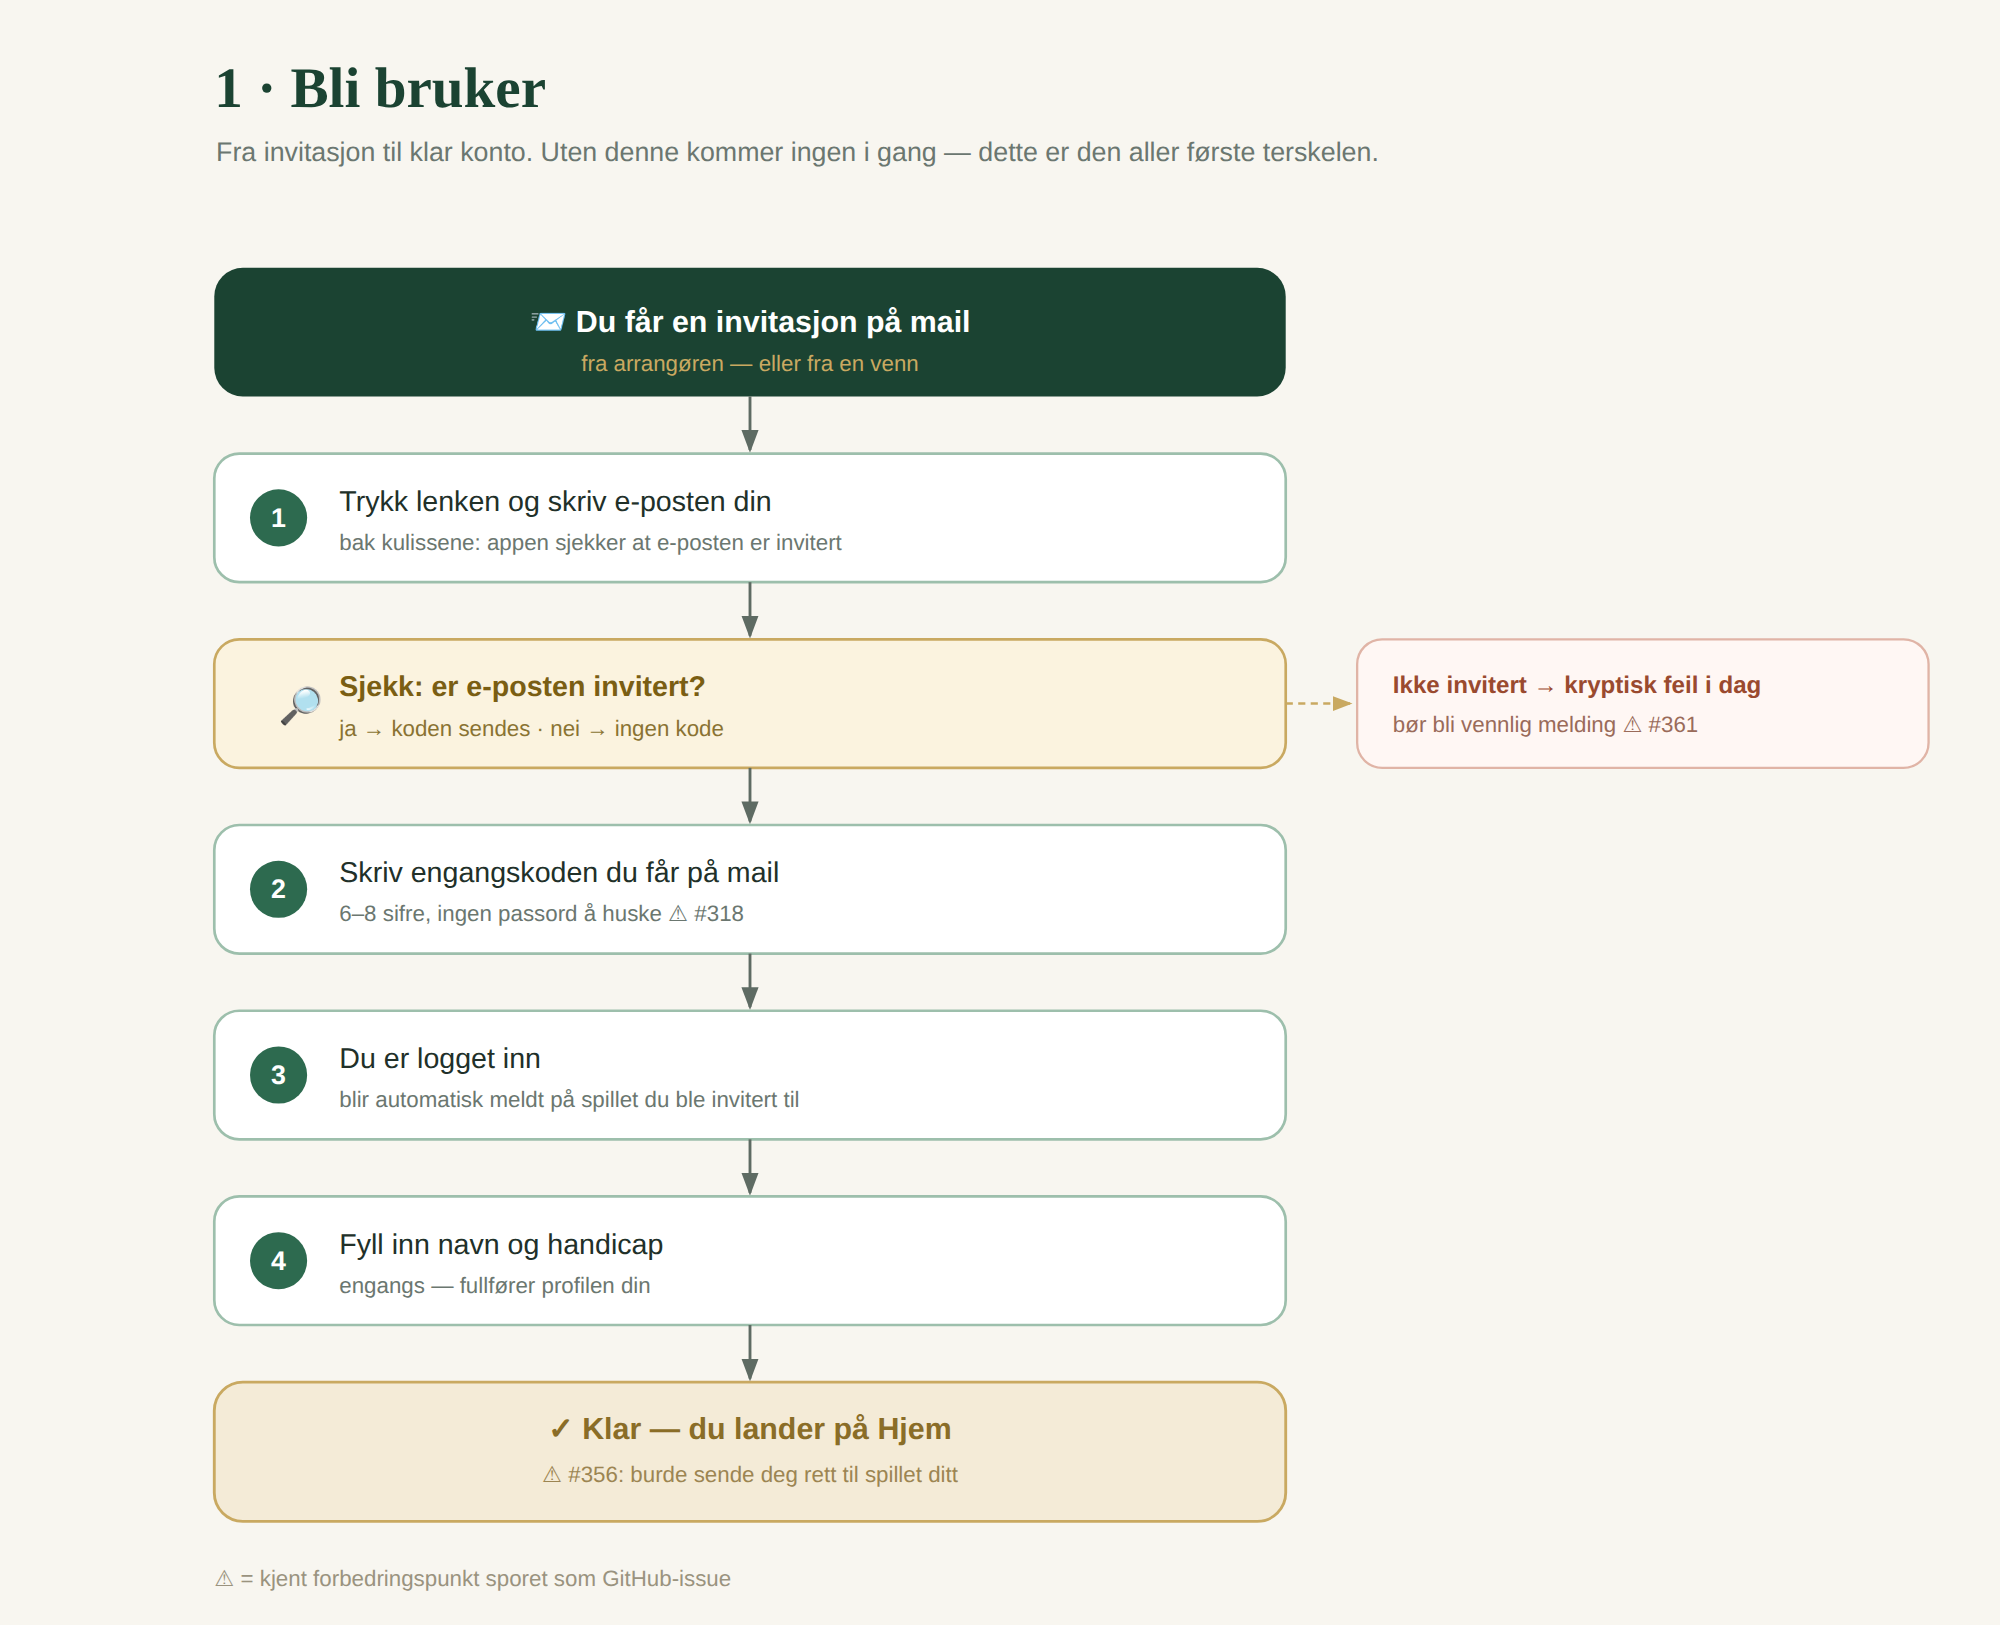
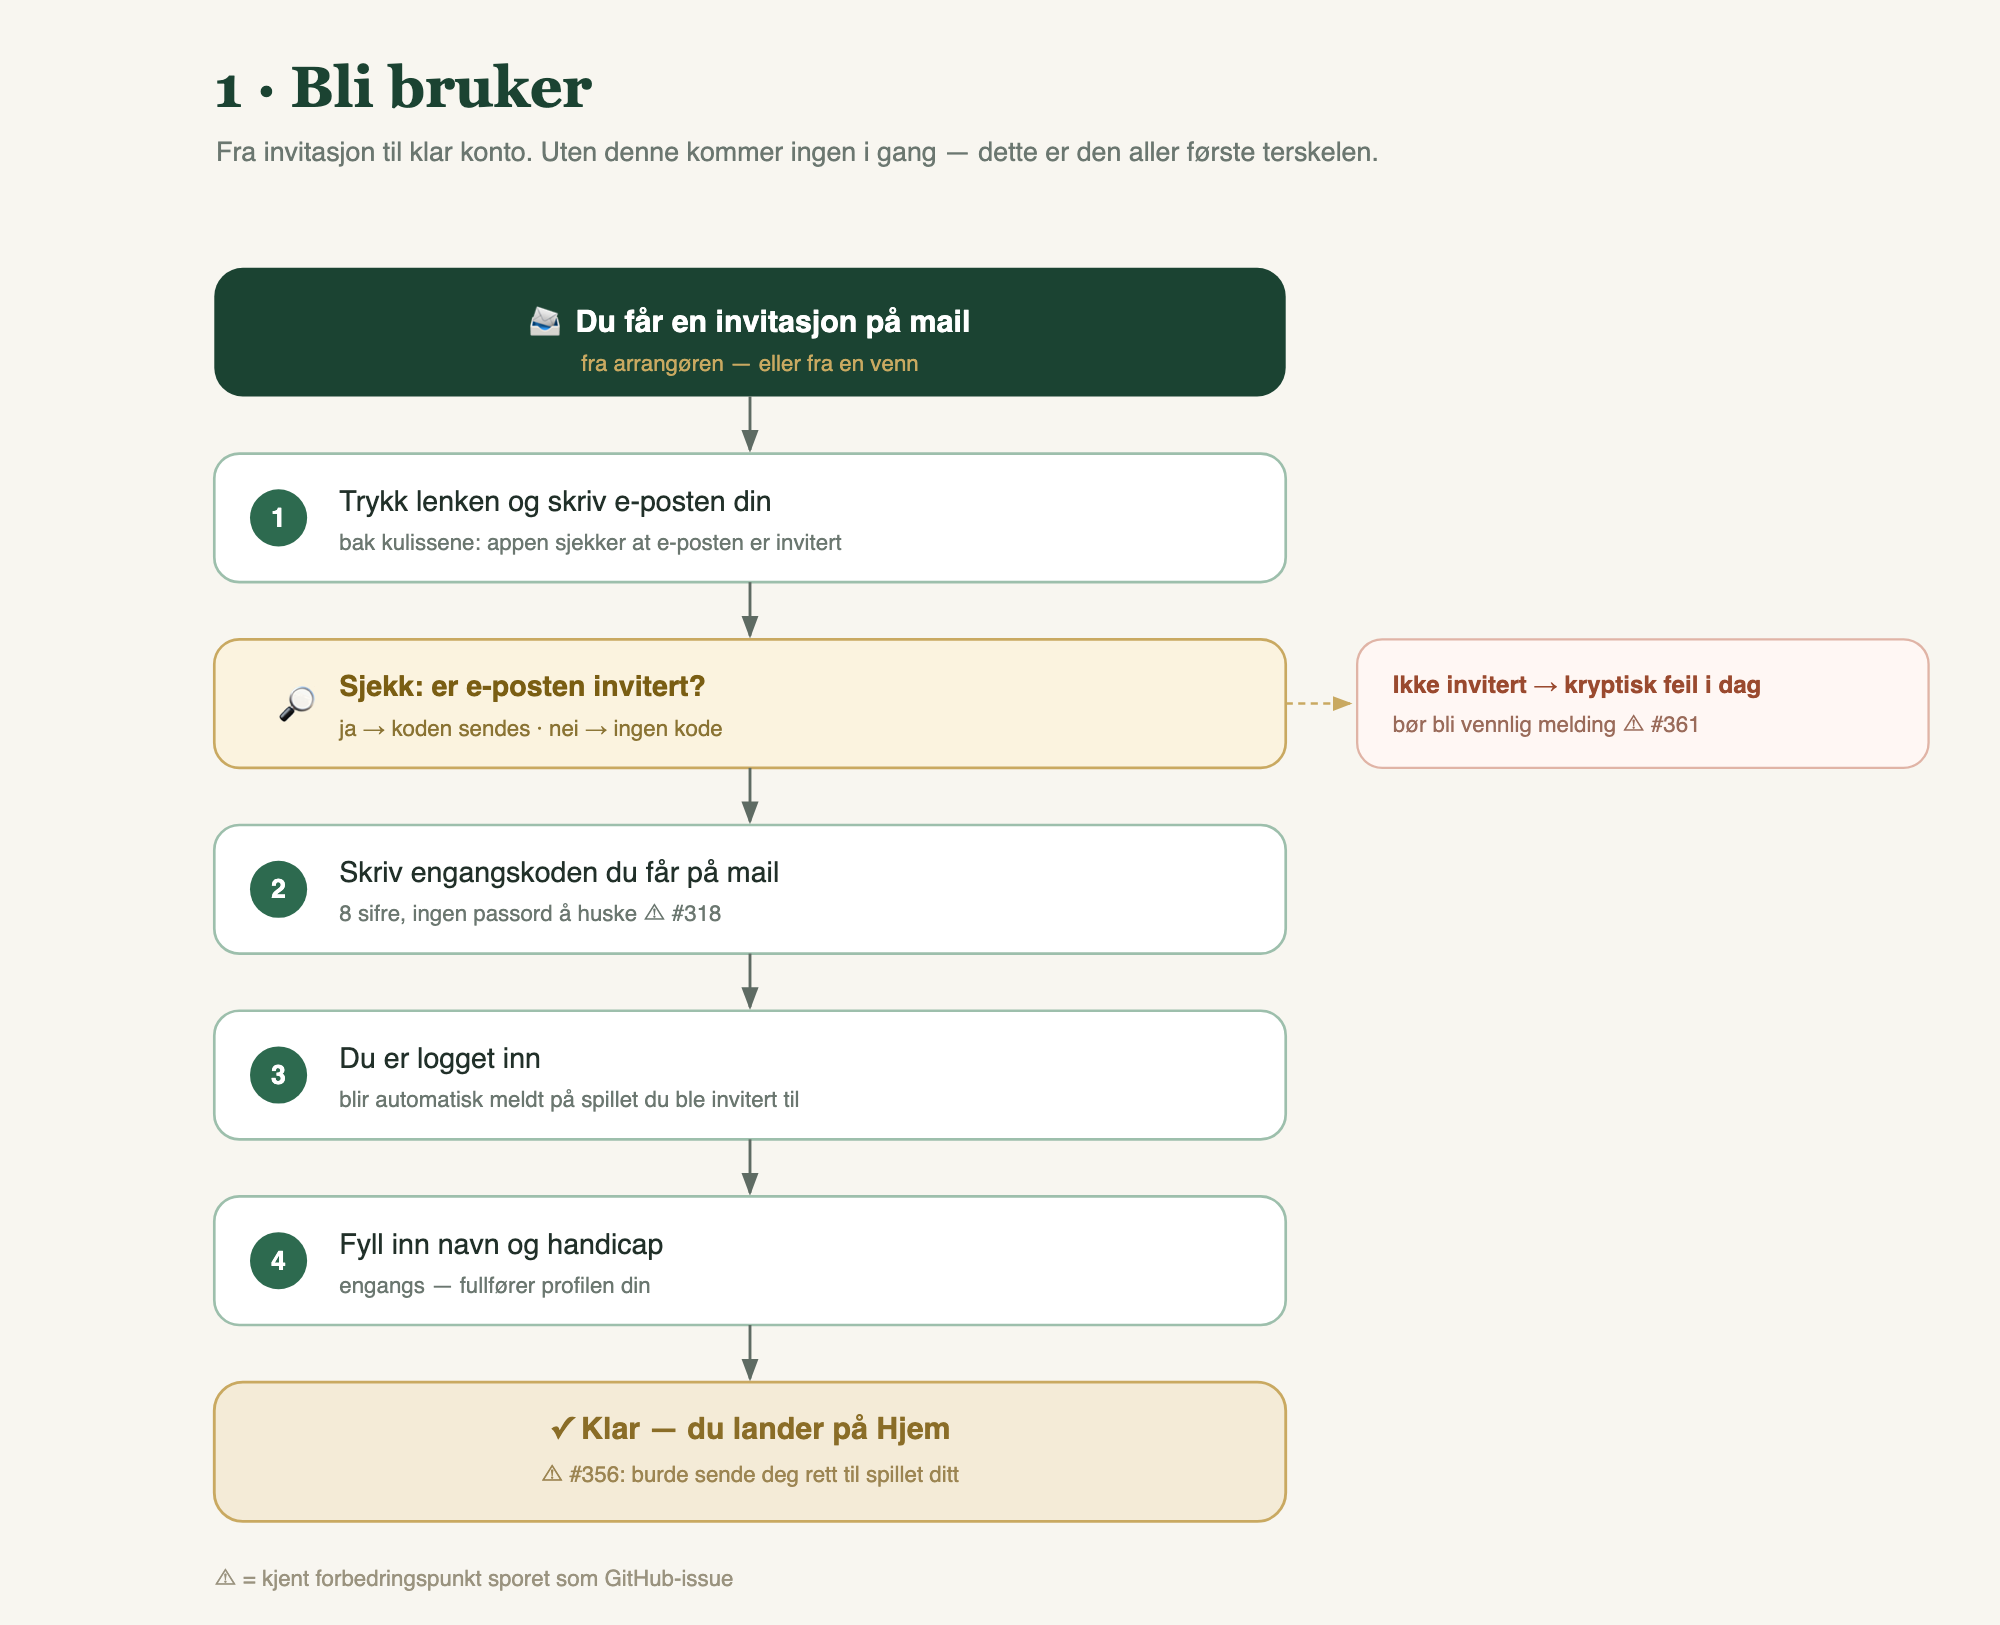
docs(login): eight digits and the new band in the docs around the login
søsken-funn: the old code length and BrandHero-on-/login outside the
feature files. docs/email-templates.md says 8-sifret, the «i dag» flow
diagram 01-bli-bruker says «8 sifre» (PNG regenerated, the other PNGs
restored), and the BrandHero/BrandMark comments and the heading comment
in e2e/auth/login.spec.ts no longer point at /login.

Refs #2349

diff --git a/components/ui/BrandHero.tsx b/components/ui/BrandHero.tsx
@@ -3,8 +3,9 @@ import { BrandMark } from './BrandMark';
 
 /**
  * Brand-mark hero: the «Tørny» wordmark (ball on the T, #1985) + the tagline
- * below. Used on /login, /finn-turneringer (logged out) and the public sign-up
- * page as the page heading, standing on the linen background. The tagline
+ * below. Used on /finn-turneringer (logged out) and the public sign-up page as
+ * the page heading, standing on the linen background. (/login has its own
+ * forest band since #2349.) The tagline
  * comes from `common.brandTagline`, so it follows the page language (#2351).
  *
  * Faithful to `brand-mark.svg` in

diff --git a/e2e/auth/login.spec.ts b/e2e/auth/login.spec.ts
@@ -19,8 +19,8 @@ test.describe('Login form smoke (OTP step 1)', () => {
   test('rendres med e-post-input og "Send meg kode"-knapp', async ({ page }) => {
     await page.goto('/login');
 
-    // BrandHero-wordmarket er sidas heading — «Logg inn»-h1-en ble fjernet
-    // i db8b73e (BrandHero-swap), så den gamle asserten var stale.
+    // Ordmerket «Tørny» i det grønne båndet er sidas heading på steg 1
+    // (#2349, LoginBand).
     await expect(page.getByRole('heading', { name: 'Tørny' })).toBeVisible();
     await expect(page.getByLabel('E-post')).toBeVisible();
     await expect(

diff --git a/components/ui/BrandMark.tsx b/components/ui/BrandMark.tsx
@@ -14,7 +14,7 @@ const SIZES = {
   xs: { className: 'text-sm', px: 14 }, // spectate banner
   sm: { className: 'text-xl', px: 20 }, // top of a page
   md: { className: 'text-3xl', px: 30 }, // signup poster
-  lg: { className: 'text-5xl', px: 48 }, // BrandHero, /login
+  lg: { className: 'text-5xl', px: 48 }, // BrandHero
   hero: { className: 'text-2xl', px: 24 }, // the front page's green top (#2261)
 } as const;
 

diff --git a/docs/email-templates.md b/docs/email-templates.md
@@ -14,14 +14,14 @@ Supabase Auth bruker konfigurerbare HTML-maler for alle auth-mailer. Her er Tør
 
 | Mal | Brukes av Tørny? | Beskrivelse |
 |---|---|---|
-| **Magic Link** | ✅ Ja, **OTP-kode** | Sendes ved login til **eksisterende** auth-brukere. **Språknøytral kode-mal (Fase M):** viser en 6-sifret kode (`{{ .Token }}`), ingen lenke, ingen prosa. |
+| **Magic Link** | ✅ Ja, **OTP-kode** | Sendes ved login til **eksisterende** auth-brukere. **Språknøytral kode-mal (Fase M):** viser en 8-sifret kode (`{{ .Token }}`), ingen lenke, ingen prosa. |
 | **Confirm Signup** | ✅ Ja, **OTP-kode** | Sendes ved `signInWithOtp(shouldCreateUser:true)` til **nye** brukere — selvregistrering, admin-invitasjoner og venneinvitasjoner via `/invite`. Samme **språknøytrale kode-mal** som Magic Link. |
 | **Invite user** | ⚠ Reserve | Vi bruker `signInWithOtp` i stedet, men hvis vi senere bytter til `auth.admin.inviteUserByEmail()` trigges denne |
 | **Change Email Address** | ⚠ Hvis brukt | Trigges hvis bruker bytter mail via Auth (ikke i UI per nå, men kan skje via dashboard) |
 | **Reset Password** | ❌ Ikke i bruk | Vi har magic link only. Branded likevel. |
 
 > ⚠ **Begge login-malene MÅ vise OTP-kode (`{{ .Token }}`), ikke lenke (`{{ .ConfirmationURL }}`).**
-> Appen ber alltid om en 6-sifret kode på `/login` og verifiserer med `verifyOtp({ type: 'email' })`. En lenke-basert mal gir mismatch (brukeren har ingen kode å taste) og gjeninnfører iOS-PWA-bruddet + mail-scanner-konsumeringen som var hele grunnen til OTP-migreringen 2026-05-13.
+> Appen ber alltid om en 8-sifret kode på `/login` og verifiserer med `verifyOtp({ type: 'email' })`. En lenke-basert mal gir mismatch (brukeren har ingen kode å taste) og gjeninnfører iOS-PWA-bruddet + mail-scanner-konsumeringen som var hele grunnen til OTP-migreringen 2026-05-13.
 >
 > **Magic Link** ble migrert til kode 2026-05-13. **Confirm Signup** ble migrert 2026-06-04 — den ble aldri trigget før åpen selvregistrering (#364) ble skrudd på, så den lå igjen som lenke-mal og sendte en «Bekreft kontoen»-lenke til den første nye brukeren. Symptom: e-post med lenke, app som ber om kode.
 
